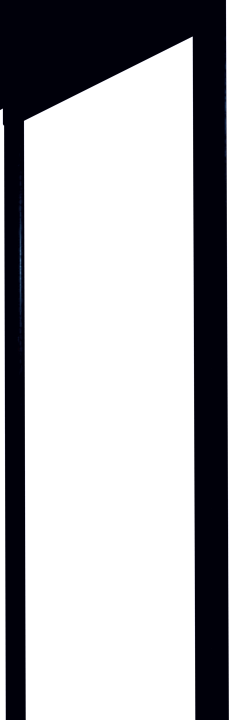
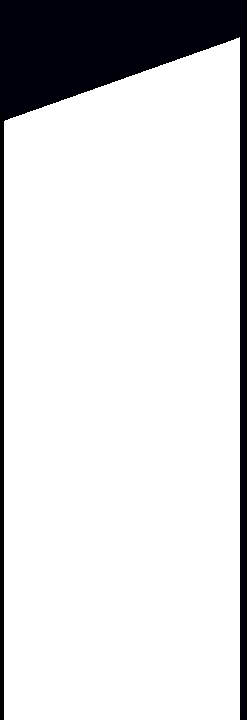
hola 2, animacion en puertas

diff --git a/FiveDoorsAtFreddys/src/com/fdaf/mvc/controllers/ControllerInterfaz.java b/FiveDoorsAtFreddys/src/com/fdaf/mvc/controllers/ControllerInterfaz.java
@@ -278,7 +278,7 @@ public class ControllerInterfaz implements JuegoListener {
 			ImageIcon gif = com.fdaf.util.CargarGifs.cargarFresco(rutaGif, imagenFinal);
 			destino.setIcon(new EscalarVista.GifEscalado(gif, destino.getWidth(), destino.getHeight()));
 
-			Timer detenerGif = new Timer(1000, e -> {
+			Timer detenerGif = new Timer(900, e -> {
 				((Timer) e.getSource()).stop();
 				destino.setIcon(EscalarVista.getImagenEscalada(imagenFinal, destino.getWidth(), destino.getHeight()));
 				pnlJuego.revalidate();
@@ -375,23 +375,16 @@ public class ControllerInterfaz implements JuegoListener {
 		@Override
 		public void alAbrirPuerta(String lado) {
 			if ("izq".equals(lado)) {
+				
 				pnlJuego.getBotonIzq().setIcon(EscalarVista.getImagenEscalada(CargarImagenes.btnIzq1,
 						pnlJuego.getBotonIzq().getWidth(), pnlJuego.getBotonIzq().getHeight()));
 
 				//ESTO ES PARA REPRODUCIR GIFS DE LAS PUERTAS 
 				// NO BORRAR
-				//reproducirGifPuertaUnaVez("izq", pnlJuego.getLblPuertaIzq(),
-					//	"/images/puertas/PuertaIzquierdAbriendo.gif", CargarImagenes.puertaIzq1);
+				reproducirGifPuertaUnaVez("izq", pnlJuego.getLblPuertaIzq(),
+						"/images/puertas/pIZQ-ABRIR.gif", CargarImagenes.puertaIzq1);
 				
-				//ESTO ES PARA DEJAR LA IMAGEN ESTATICA DE LAS PUERTAS
-				// NO BORRAR
-				pnlJuego.getLblPuertaIzq().setIcon(
-					    EscalarVista.getImagenEscalada(
-					        CargarImagenes.puertaIzq1,
-					        pnlJuego.getLblPuertaIzq().getWidth(),
-					        pnlJuego.getLblPuertaIzq().getHeight()
-					    )
-					);
+
 				
 			} else {
 				pnlJuego.getBotonDer().setIcon(EscalarVista.getImagenEscalada(CargarImagenes.btnDer1,
@@ -399,18 +392,10 @@ public class ControllerInterfaz implements JuegoListener {
 
 				//ESTO ES PARA REPRODUCIR GIFS DE LAS PUERTAS 
 				// NO BORRAR
-				//reproducirGifPuertaUnaVez("der", pnlJuego.getLblPuertaDer(),
-					//	"/images/puertas/PuertaDerechaAbriendo.gif", CargarImagenes.puertaDer1);
+				reproducirGifPuertaUnaVez("der", pnlJuego.getLblPuertaDer(),
+						"/images/puertas/pDER-ABRIR.gif", CargarImagenes.puertaDer1);
 				
-				//ESTO ES PARA DEJAR LA IMAGEN ESTATICA DE LAS PUERTAS
-				// NO BORRAR
-				pnlJuego.getLblPuertaDer().setIcon(
-					    EscalarVista.getImagenEscalada(
-					        CargarImagenes.puertaDer1,
-					        pnlJuego.getLblPuertaDer().getWidth(),
-					        pnlJuego.getLblPuertaDer().getHeight()
-					    )
-					);
+
 				
 				
 			}
@@ -427,18 +412,10 @@ public class ControllerInterfaz implements JuegoListener {
 				
 				//ESTO ES PARA REPRODUCIR GIFS DE LAS PUERTAS 
 				// NO BORRAR
-				//reproducirGifPuertaUnaVez("izq", pnlJuego.getLblPuertaIzq(),
-					//	"/images/puertas/PuertaIzquierdaCerrando.gif", CargarImagenes.puertaIzq0);
+				reproducirGifPuertaUnaVez("izq", pnlJuego.getLblPuertaIzq(),
+						"/images/puertas/pIZQ-CERRAR.gif", CargarImagenes.puertaIzq0);
 				
-				//ESTO ES PARA DEJAR LA IMAGEN ESTATICA DE LAS PUERTAS
-				// NO BORRAR
-				pnlJuego.getLblPuertaIzq().setIcon(
-					    EscalarVista.getImagenEscalada(
-					        CargarImagenes.puertaIzq0,
-					        pnlJuego.getLblPuertaIzq().getWidth(),
-					        pnlJuego.getLblPuertaIzq().getHeight()
-					    )
-					);
+
 				
 			} else {
 				pnlJuego.getBotonDer().setIcon(EscalarVista.getImagenEscalada(CargarImagenes.btnDer0,
@@ -446,18 +423,10 @@ public class ControllerInterfaz implements JuegoListener {
 				
 				//ESTO ES PARA REPRODUCIR GIFS DE LAS PUERTAS 
 				// NO BORRAR
-				//reproducirGifPuertaUnaVez("der", pnlJuego.getLblPuertaDer(),
-					//	"/images/puertas/PuertaDerechaCerrando.gif", CargarImagenes.puertaDer0);
+				reproducirGifPuertaUnaVez("der", pnlJuego.getLblPuertaDer(),
+						"/images/puertas/pDER-CERRAR.gif", CargarImagenes.puertaDer0);
 				
-				//ESTO ES PARA DEJAR LA IMAGEN ESTATICA DE LAS PUERTAS
-				// NO BORRAR
-				pnlJuego.getLblPuertaDer().setIcon(
-					    EscalarVista.getImagenEscalada(
-					        CargarImagenes.puertaDer0,
-					        pnlJuego.getLblPuertaDer().getWidth(),
-					        pnlJuego.getLblPuertaDer().getHeight()
-					    )
-					);
+
 				
 			}
 			pnlJuego.revalidate();

diff --git a/FiveDoorsAtFreddys/src/com/fdaf/util/CargarImagenes.java b/FiveDoorsAtFreddys/src/com/fdaf/util/CargarImagenes.java
@@ -42,10 +42,15 @@ public class CargarImagenes {
 	public static ImageIcon luzDer0;
 	public static ImageIcon luzIzq1;
 	public static ImageIcon luzDer1;
+	
 	public static ImageIcon puertaDer0;
 	public static ImageIcon puertaIzq0;
 	public static ImageIcon puertaDer1;
 	public static ImageIcon puertaIzq1;
+	public static ImageIcon puertaIzqCE;
+	public static ImageIcon puertaIzqAB;
+	public static ImageIcon puertaDerCE;
+	public static ImageIcon puertaDerAB;
 
 	public static ImageIcon bateria0;
 	public static ImageIcon bateria1;
@@ -77,6 +82,10 @@ public class CargarImagenes {
 		juegoLuzIzq = new ImageIcon(CargarImagenes.class.getResource("/gifs/fondos/OficinaLuzIzq.gif"));
 	    juegoLuzDer = new ImageIcon(CargarImagenes.class.getResource("/gifs/fondos/OficinaLuzDer.gif"));
 	    abanico = new ImageIcon(CargarImagenes.class.getResource("/gifs/fondos/abanico.gif"));
+	    
+
+	    
+	    
 
 
 	    Toolkit.getDefaultToolkit().prepareImage(juegoLuzIzq.getImage(), -1, -1, null);
@@ -123,6 +132,15 @@ public class CargarImagenes {
 
 	
 		/*puertas*/
+		
+		
+	    puertaDerAB=new ImageIcon(CargarImagenes.class.getResource("/images/puertas/pDER-ABRIR.gif"));
+	    puertaDerCE=new ImageIcon(CargarImagenes.class.getResource("/images/puertas/pDER-CERRAR.gif"));
+	    
+	    puertaIzqAB=new ImageIcon(CargarImagenes.class.getResource("/images/puertas/pIZQ-ABRIR.gif"));
+	    puertaIzqCE=new ImageIcon(CargarImagenes.class.getResource("/images/puertas/pIZQ-CERRAR.gif"));
+		
+		
 		puertaDer0=new ImageIcon(CargarImagenes.class.getResource("/images/ui/puertas/puertaDer.png"));
 		puertaIzq0=new ImageIcon(CargarImagenes.class.getResource("/images/ui/puertas/puertaIzq.png"));
 		puertaDer1=new ImageIcon(CargarImagenes.class.getResource("/images/ui/puertas/104.png"));
